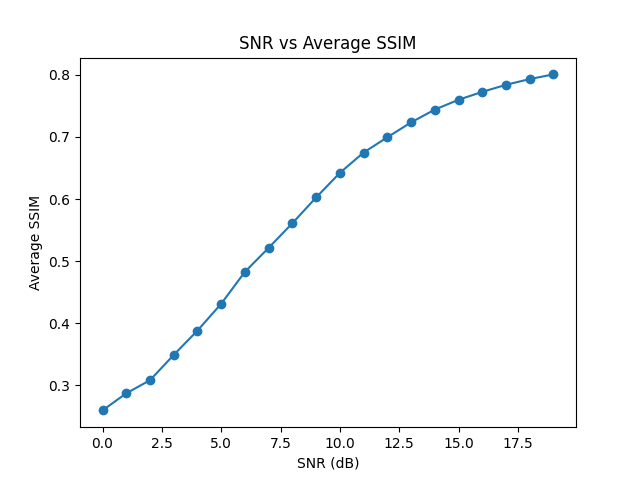
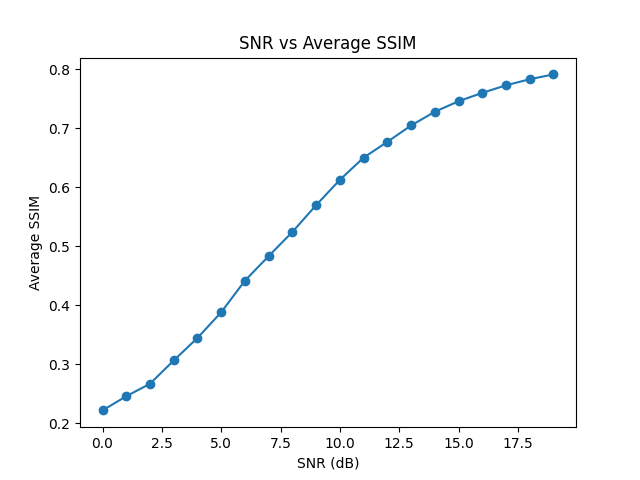
modify

diff --git a/eval.py b/eval.py
@@ -5,7 +5,7 @@ def MSE(x, y):
     return ((x - y) ** 2).mean()
 
 def ssim_crite(x, y):
-    return ssim(x, y)
+    return ssim(x, y, channel_axis=-1)
 def main():
     cwd = os.getcwd()
     print("Current working directory:", cwd)
@@ -42,8 +42,8 @@ def main():
                 from PIL import Image
                 import numpy as np
                 
-                sentimg = np.array(Image.open(os.path.join(path1, sp)).convert('L').resize((256, 256)))
-                recimg = np.array(Image.open(os.path.join(path2, rp)).convert('L').resize((256, 256)))
+                sentimg = np.array(Image.open(os.path.join(path1, sp)).convert('RGB').resize((256, 256)))
+                recimg = np.array(Image.open(os.path.join(path2, rp)).convert('RGB').resize((256, 256)))
                 mse = ssim_crite(sentimg, recimg) # 評価指標
                 dic_sum[snr] = dic_sum.get(snr, 0) + mse
                 dic_num[snr] = dic_num.get(snr, 0) + 1

diff --git a/LDPC.py b/LDPC.py
@@ -11,7 +11,7 @@ pathr = "./outputs/LDPC" # 受信画像dirのpath
     1列あたりの1の数: d_v
     """
 # --- パラメータ設定 ---
-BLOCK_SIZE = 4096
+BLOCK_SIZE = 1024
 CODE_RATE = 0.5 # 符号率
 d_v, d_c = 2, 4 # LDPCのパラメータ
 
